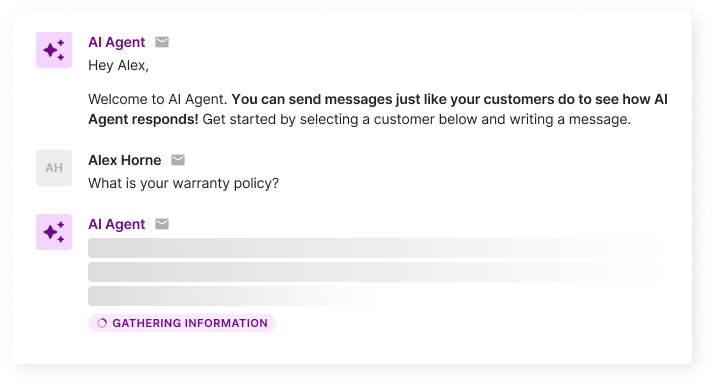
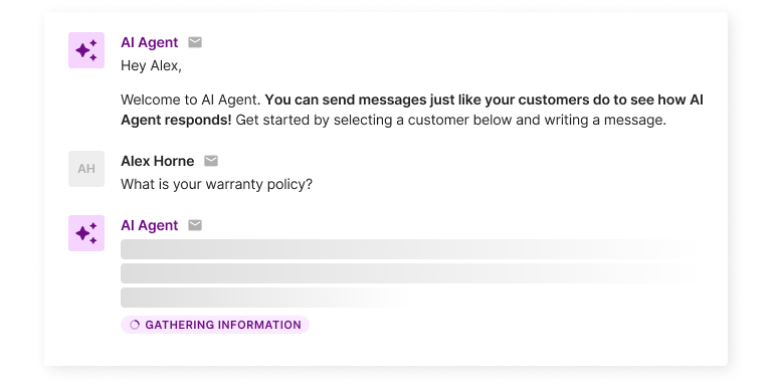
fix(aut-adopt): QA items - design improvements (#5349)
* fix(aut-adopt): QA items - design improvements

* fix(aut-adopt): add test

diff --git a/src/pages/automate/aiAgent/hooks/test/useConfigurationForm.spec.ts b/src/pages/automate/aiAgent/hooks/test/useConfigurationForm.spec.ts
@@ -467,7 +467,38 @@ describe('useConfigurationForm', () => {
         expect(mockDispatch).toHaveBeenCalled()
         expect(notify).toHaveBeenCalledWith(
             expect.objectContaining({
-                message: 'At least one channel must be toggled ON.',
+                message: 'At least one channel must be selected.',
+                status: 'error',
+            })
+        )
+    })
+
+    it('should throw error when there is no channel selected in wizard', async () => {
+        const {result} = renderHook(() =>
+            useConfigurationForm({
+                initValues: {
+                    ...INITIAL_FORM_VALUES,
+                    toneOfVoice: ToneOfVoice.Friendly,
+                    signature: 'Initial signature',
+                    wizard: {
+                        ...DEFAULT_WIZARD_FORM_VALUES,
+                        enabledChannels: [],
+                        completedDatetime: new Date().toISOString(),
+                    },
+                },
+                shopName,
+            })
+        )
+        await act(async () => {
+            await result.current.handleOnSave({
+                shopName: 'test shop',
+            })
+        })
+
+        expect(mockDispatch).toHaveBeenCalled()
+        expect(notify).toHaveBeenCalledWith(
+            expect.objectContaining({
+                message: 'At least one channel must be selected.',
                 status: 'error',
             })
         )

diff --git a/src/pages/automate/aiAgent/AiAgentOnboardingWizard/tests/TicketPreview.spec.tsx b/src/pages/automate/aiAgent/AiAgentOnboardingWizard/tests/TicketPreview.spec.tsx
@@ -22,7 +22,7 @@ describe('TicketPreview', () => {
             />
         )
 
-        expect(screen.getByText('Hey Alex')).toBeInTheDocument()
+        expect(screen.getByText('Hey Alex,')).toBeInTheDocument()
         expect(
             screen.getByText(
                 "We totally get it—sometimes things just don't work out. You can return your items within 30 days of purchase for a full refund or exchange, as long as they're unused and in their original packaging."
@@ -44,7 +44,7 @@ describe('TicketPreview', () => {
             />
         )
 
-        expect(screen.getByText('Hi Alex')).toBeInTheDocument()
+        expect(screen.getByText('Hi Alex,')).toBeInTheDocument()
         expect(
             screen.getByText(
                 'We accept returns within 30 days of purchase for a full refund or exchange, provided the items are unused and in their original packaging.'
@@ -66,7 +66,7 @@ describe('TicketPreview', () => {
             />
         )
 
-        expect(screen.getByText('Dear Alex')).toBeInTheDocument()
+        expect(screen.getByText('Dear Alex,')).toBeInTheDocument()
         expect(
             screen.getByText(
                 'We are pleased to inform you that we accept returns within 30 days of purchase for a full refund or exchange, contingent upon the items being unused and in their original packaging.'

diff --git a/src/pages/common/components/HeroImageCarousel/HeroImageCarousel.tsx b/src/pages/common/components/HeroImageCarousel/HeroImageCarousel.tsx
@@ -21,6 +21,7 @@ type Props = {
     classNameDescription?: string
     classNameImage?: string
     classNameSlideAction?: string
+    classNameActionIcon?: string
     onClose?: () => void
 }
 
@@ -33,6 +34,7 @@ const HeroImageCarousel = ({
     classNameDescription,
     classNameImage,
     classNameSlideAction,
+    classNameActionIcon,
     onClose,
 }: Props) => {
     const [currentSlide, setCurrentSlide] = useState(0)
@@ -126,6 +128,7 @@ const HeroImageCarousel = ({
                             className={classNames(
                                 'material-icons',
                                 css.actionIcon,
+                                classNameActionIcon,
                                 {
                                     [css.disabled]: currentSlide === 0,
                                 }
@@ -148,6 +151,7 @@ const HeroImageCarousel = ({
                             className={classNames(
                                 'material-icons',
                                 css.actionIcon,
+                                classNameActionIcon,
                                 {
                                     [css.disabled]:
                                         currentSlide === slides.length - 1,

diff --git a/src/pages/automate/aiAgent/hooks/useConfigurationForm.ts b/src/pages/automate/aiAgent/hooks/useConfigurationForm.ts
@@ -175,7 +175,7 @@ export const useConfigurationForm = ({
         const noSelectedChannelsMessage = !!formValues?.wizard
             ?.completedDatetime
             ? 'Please select at least 1 email address for AI Agent to use or disable AI Agent to proceed.'
-            : 'At least one channel must be toggled ON.'
+            : 'At least one channel must be selected.'
         if (isChatSupportEnabled) {
             // we must have at least one integration selected (email or chat)
             if (
@@ -204,7 +204,7 @@ export const useConfigurationForm = ({
                 AiAgentOnboardingWizardStep.Knowledge ||
                 formValues.wizard.completedDatetime !== null)
         ) {
-            throw new Error('At least one channel must be toggled ON.')
+            throw new Error('At least one channel must be selected.')
         }
 
         // we must have integration for selected channel

diff --git a/src/pages/automate/aiAgent/AiAgentOnboardingWizard/PostCompletionWizardModal.tsx b/src/pages/automate/aiAgent/AiAgentOnboardingWizard/PostCompletionWizardModal.tsx
@@ -126,11 +126,12 @@ const PostCompletionWizardModal = () => {
                     <ModalBody className={css.content}>
                         <HeroImageCarousel
                             slides={modalParams.slidesData}
-                            width={606}
+                            width={638}
                             classNameHeader={css.carouselHeader}
                             classNameImage={css.carouselImage}
                             classNameDescription={css.carouselDescription}
                             classNameSlideAction={css.carouselSlideAction}
+                            classNameActionIcon={css.carouselActionIcon}
                             onClose={onClose}
                         />
                     </ModalBody>

diff --git a/src/pages/automate/aiAgent/AiAgentOnboardingWizard/PostCompletionWizardModal.less b/src/pages/automate/aiAgent/AiAgentOnboardingWizard/PostCompletionWizardModal.less
@@ -31,15 +31,18 @@
         flex-direction: column;
         align-items: center;
         text-align: center;
-        row-gap: @layout-spacing-s;
     }
 
     .carouselHeader {
         .heading-page-semibold();
+        max-width: 638px;
     }
 
     .carouselImage {
         margin-top: @layout-spacing-m;
+        border-radius: 0;
+        box-shadow: none;
+        height: 193px;
     }
 
     .carouselDescription {
@@ -49,5 +52,9 @@
 
     .carouselSlideAction {
         margin-top: @layout-spacing-m;
+    }
+
+    .carouselActionIcon {
+        font-size: 20px;
     }
 }

diff --git a/src/pages/automate/aiAgent/AiAgentOnboardingWizard/TicketPreview.tsx b/src/pages/automate/aiAgent/AiAgentOnboardingWizard/TicketPreview.tsx
@@ -65,7 +65,7 @@ const AIAgentMessage = ({
                     </i>
                 </div>
                 <div>
-                    <div>{greetings && `${greetings} ${CUSTOMER_NAME}`}</div>
+                    <div>{greetings && `${greetings} ${CUSTOMER_NAME},`}</div>
                     <div>
                         {greetings && <br />}
                         {showMessage && (

diff --git a/src/pages/automate/aiAgent/AiAgentOnboardingWizard/TicketPreview.less b/src/pages/automate/aiAgent/AiAgentOnboardingWizard/TicketPreview.less
@@ -8,7 +8,7 @@
         background-color: var(--neutral-grey-0);
         border-radius: 0 0 4px 4px;
         box-shadow: 0 2px 4px 0 rgba(0, 0, 0, 0.1);
-        max-width: 428px;
+        width: 428px;
 
         .message {
             display: flex;
